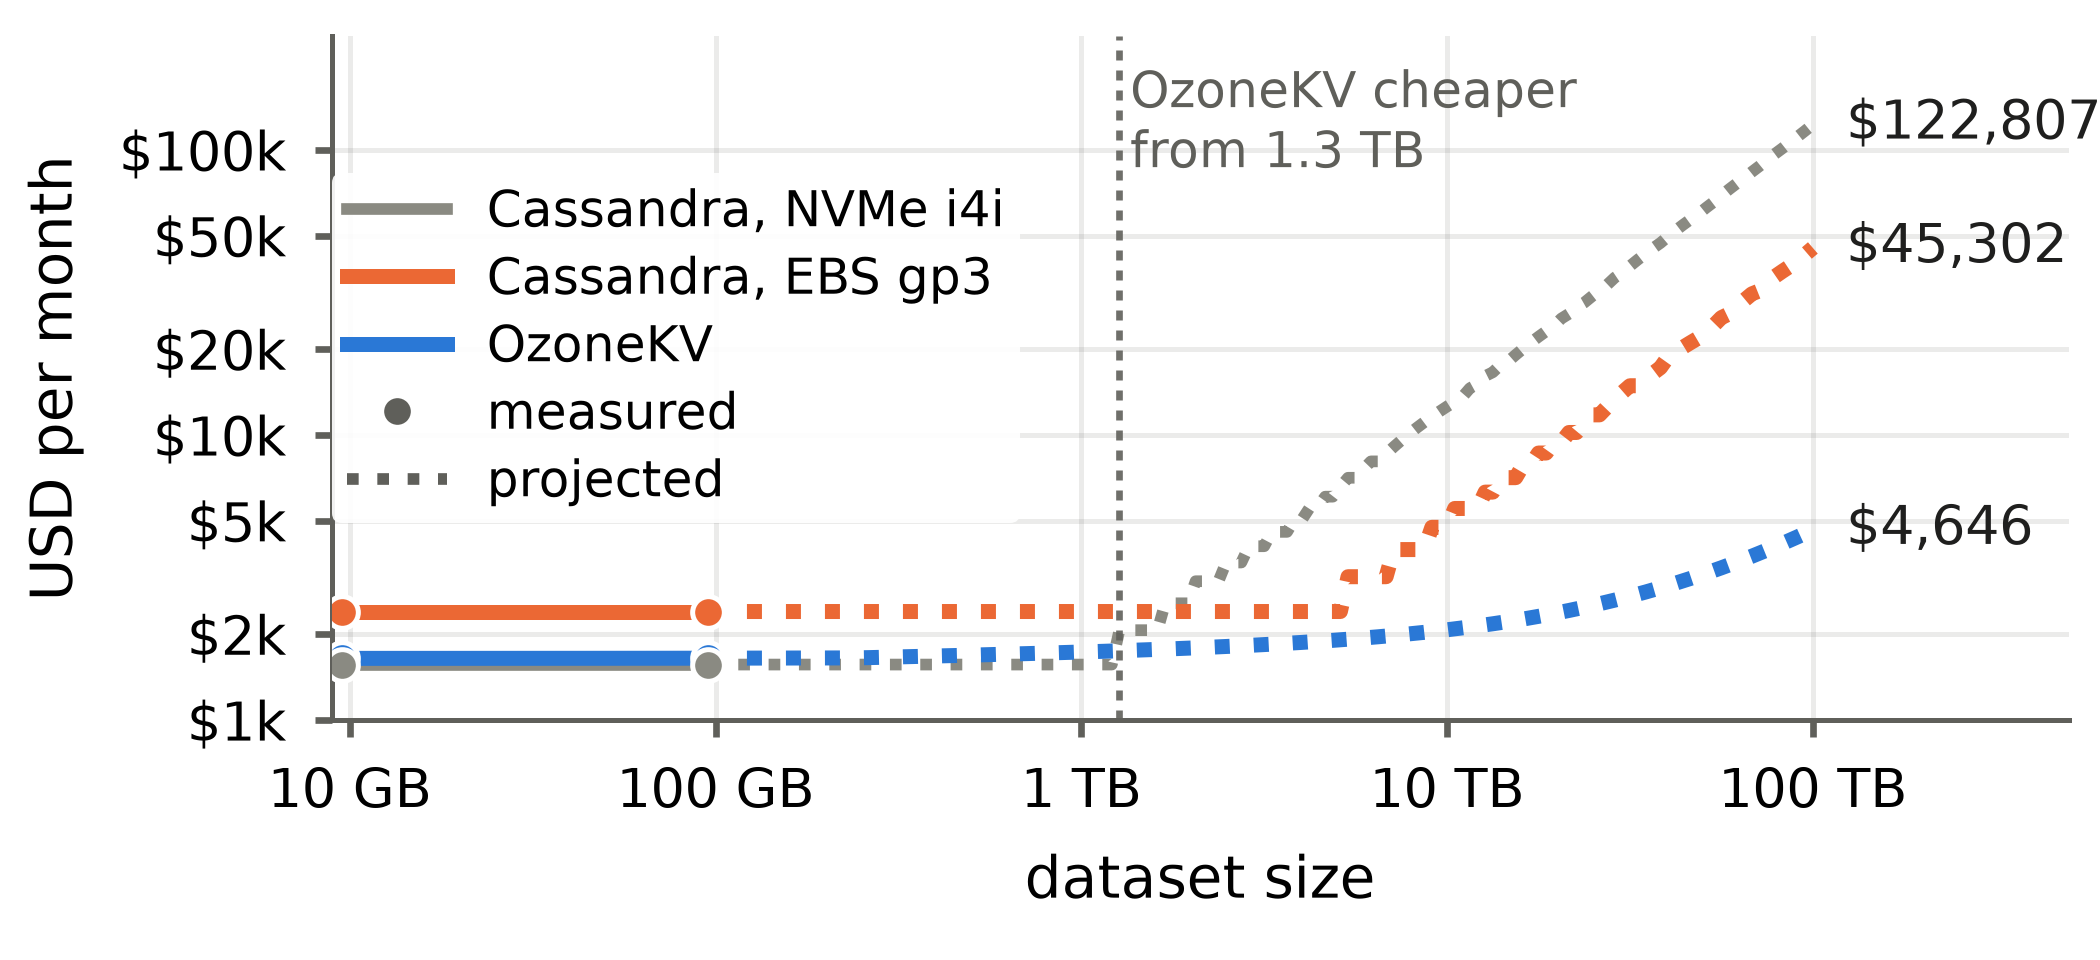
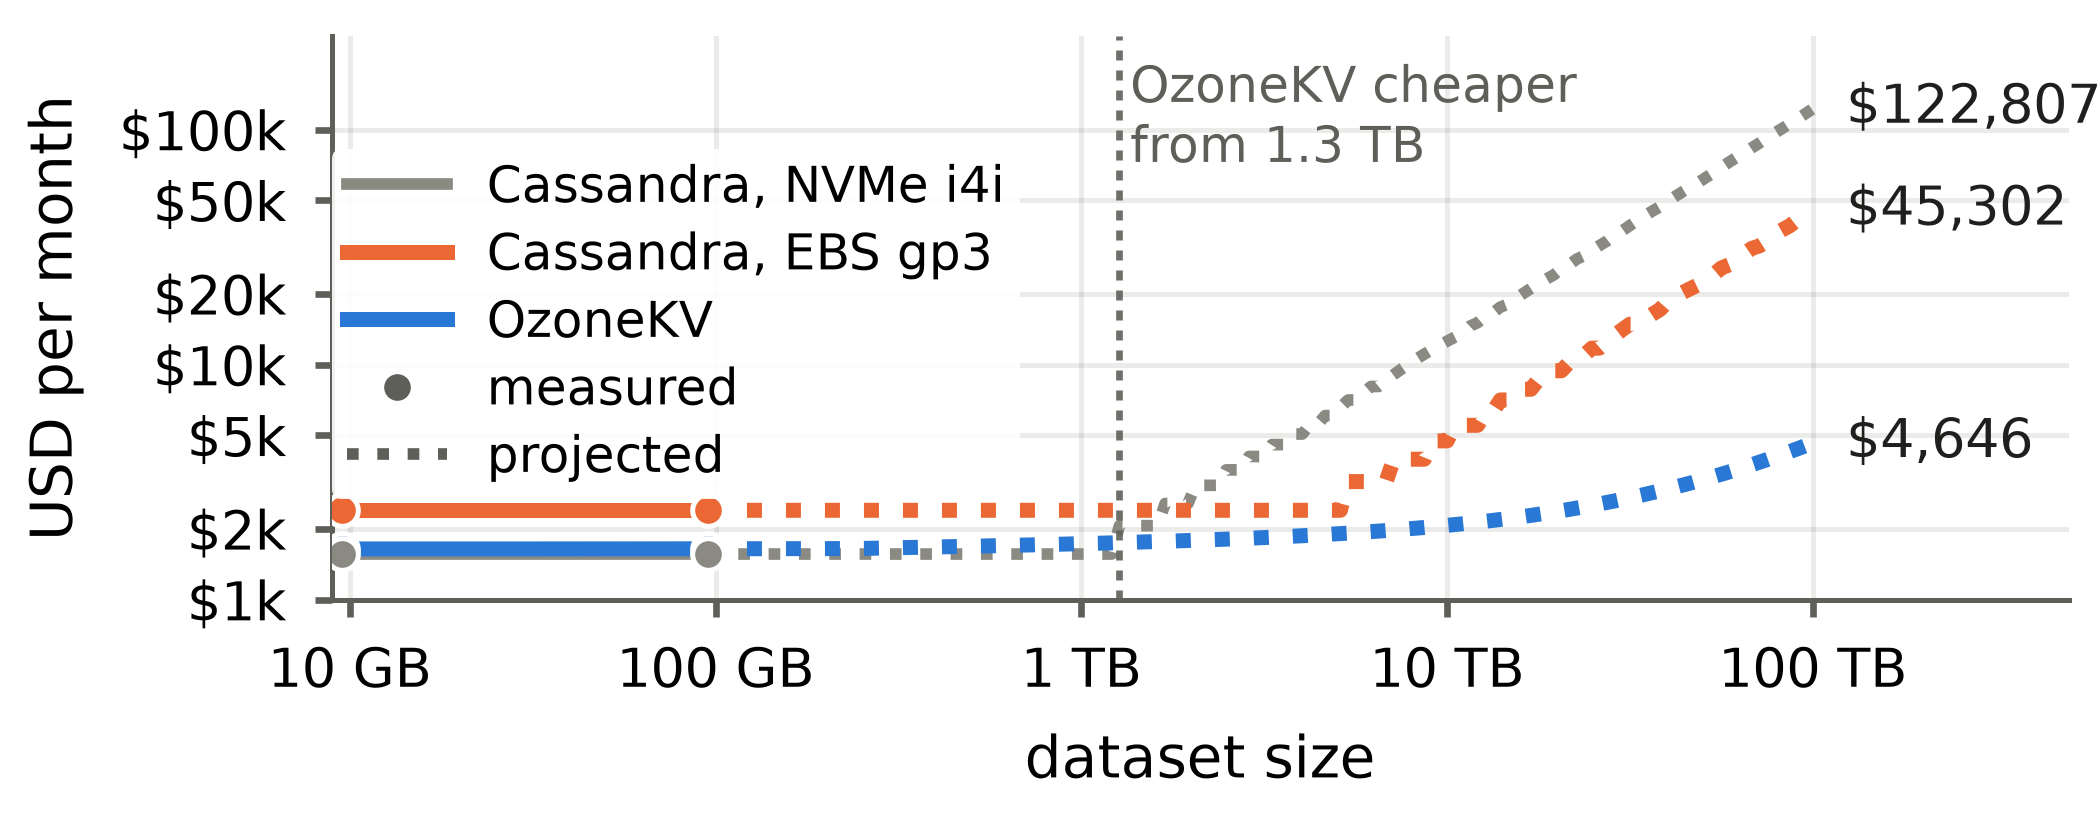
bench: column cost figure cut to 3.5 x 1.4 in
Height 1.6 -> 1.4; top/bottom fractions rescaled so the absolute
margins hold (top 0.962 -> 0.957, bottom 0.25 -> 0.286). Verified
in the render: the legend clears the flat lines and nothing clips.
The wide (a)+(b) layout is unchanged.

Claude-Session: https://claude.ai/code/session_01NGxReJb9LDcmdrCuRqfn7h

diff --git a/bench/scripts/plot/paper_cost_figure.py b/bench/scripts/plot/paper_cost_figure.py
@@ -463,9 +463,9 @@ def main():
     plt.close(fig)
 
     # Single column: (a) alone.
-    fig, ax = plt.subplots(figsize=(3.5, 1.6))
+    fig, ax = plt.subplots(figsize=(3.5, 1.4))
     panel_a(ax, coef, model, s, single=True)
-    fig.subplots_adjust(left=0.158, right=0.985, top=0.962, bottom=0.25)
+    fig.subplots_adjust(left=0.158, right=0.985, top=0.957, bottom=0.286)
     for ext in ("pdf", "png"):
         fig.savefig(f"{args.out}_col.{ext}")
         print(f"wrote {args.out}_col.{ext}")
